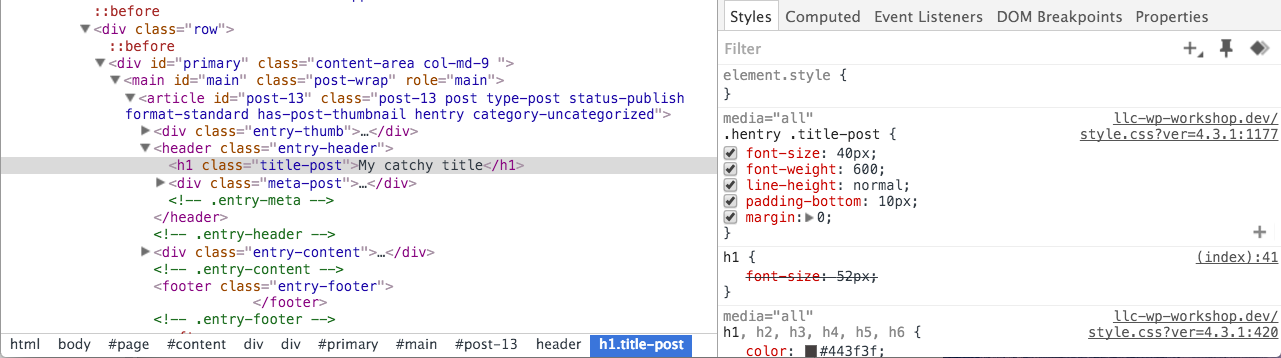
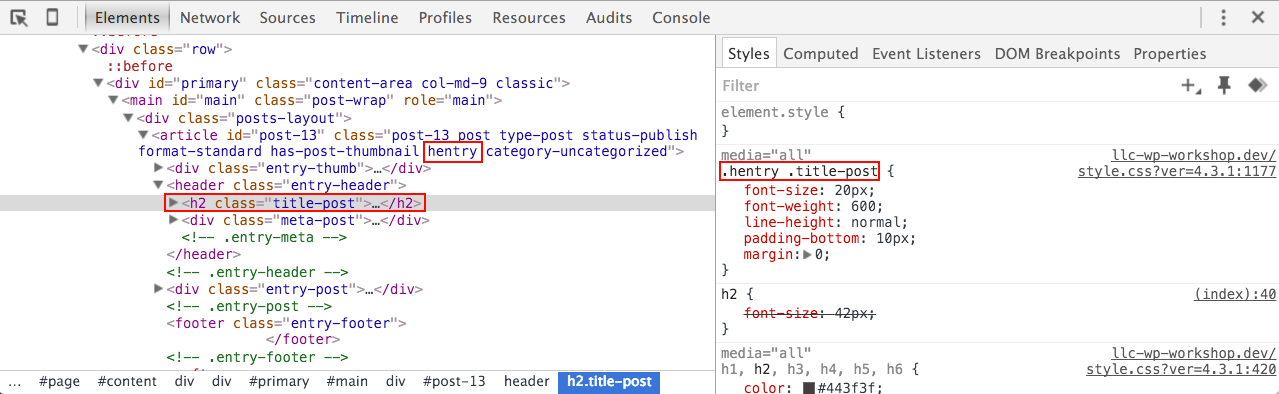
Revised CSS exercise.

diff --git a/slides.html b/slides.html
@@ -1582,7 +1582,7 @@
         }
         ```
 
-        When setting up the child theme, the script used to enqueue the parent and child theme stylesheets not only connected the parent stylesheet to the child theme but also to ensure that the child theme stylesheet would load after to be able to override the parent styles as needed.
+        When setting up the child theme, the script used to enqueue the parent and child theme stylesheets ensures that the parent and child themes are loaded in such a way that the child theme css can override the parent theme css file.
       </script>
     </section>
     
@@ -1639,23 +1639,18 @@
     
     <section class="slide" data-markdown>
       <script type="text/template">
-        #Exercise: Update style.css
+        #Class Exercise: Update style.css
         
         Open `style.css` from your child theme folder, **sydney-child**, in the text editor.
         
-        Using the identified selectors, make some changes!  Here's a few examples:
+        Using the identified selector, make some changes!  Let's try updating the font-size and colour:
         
         ```css
-        body {
-          color: #222222; /* dark gray, almost black */
-          font-size: 18px;
-        }
         .hentry .title-post {
           font-size; 40px;
           color: #B109AA; /* LLC purply pink! */
         }
         ```
-        
         ---
         ###Resources
         
@@ -1663,6 +1658,71 @@
         * [Mozilla Developer Network: CSS Text Styles](https://developer.mozilla.org/en-US/docs/Web/Guide/CSS/Getting_Started/Text_styles)
       </script>
     </section>
+    
+    <section class="slide" data-markdown>
+      <script type="text/template">
+        #Update style.css
+        
+        Uh oh. How come only the `font-size` change is showing but not the color? 
+        
+        Inspecting the element shows that (1) the new css is being loaded and (2) the `font-size` is overriding the previous styles. But still no color change.
+        
+        **Hint**: See the arrow beside the `<h2>`? Click to open.
+        
+        ![](framework/img/workshop/css-change-1.png)
+      </script>
+    </section>
+    
+    <section class="slide" data-markdown>
+      <script type="text/template">
+        #Update style.css 
+        
+        The color of this heading is set using a *different* selector that targets the link, inside of the `<h1>` tag. That's why our CSS additions wasn't working.
+        
+        ![](framework/img/workshop/inspect-element-css-2.gif)
+      </script>
+    </section>
+    
+    <section class="slide" data-markdown>
+      <script type="text/template">
+        #Update style.css 
+        
+        There seem to be multiple selectors being used to set the colour. How do you know which one to use?
+        
+        When inspecting the element, (1) shows as crossed out. That means something else is using a more specific selector and is overriding. So, that means the selector shown in (2) should be used.  
+        
+        ![](framework/img/workshop/css-change-2.png)
+      </script>
+    </section>
+    
+    <section class="slide" data-markdown>
+      <script type="text/template">
+        #Update style.css 
+        
+        This snippet below indicates that all of the links (`a`) contained within all of the headings (`h1, h2, etc`) will show the same colour by *combining* the selectors into a list separated by a comma.
+        ```css
+        h1 a, h2 a, h3 a, h4 a, h5 a, h6 a {
+          color: #d65050;
+        }
+        ```
+        
+        If you only want to change the color for this specific heading, use just `h2 a` as your selector. Notice that when inspecting an element, the specific element being selected is highlighted when included in a list of combined selectors.
+        
+        ![](framework/img/workshop/inspect-css-selectors.png)
+        
+        Update style.css with the new selector.
+        
+        ```css
+        .hentry .title-post {
+          font-size: 40px;  
+        }
+        h2 a {
+          color: #B109AA; /* LLC purply pink!*/
+        }
+        ```
+      </script>
+    </section>
+    
     
     <section class="slide" data-markdown>
       <script type="text/template">
